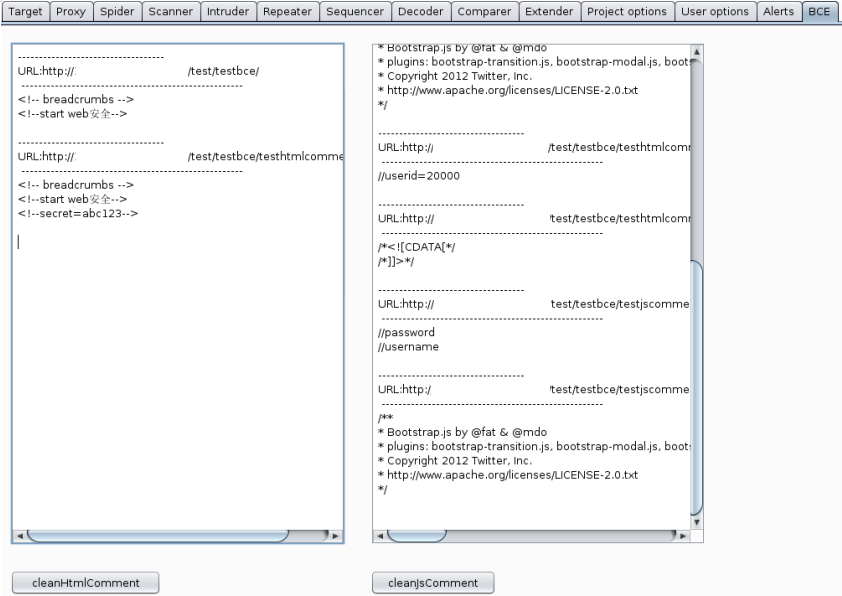
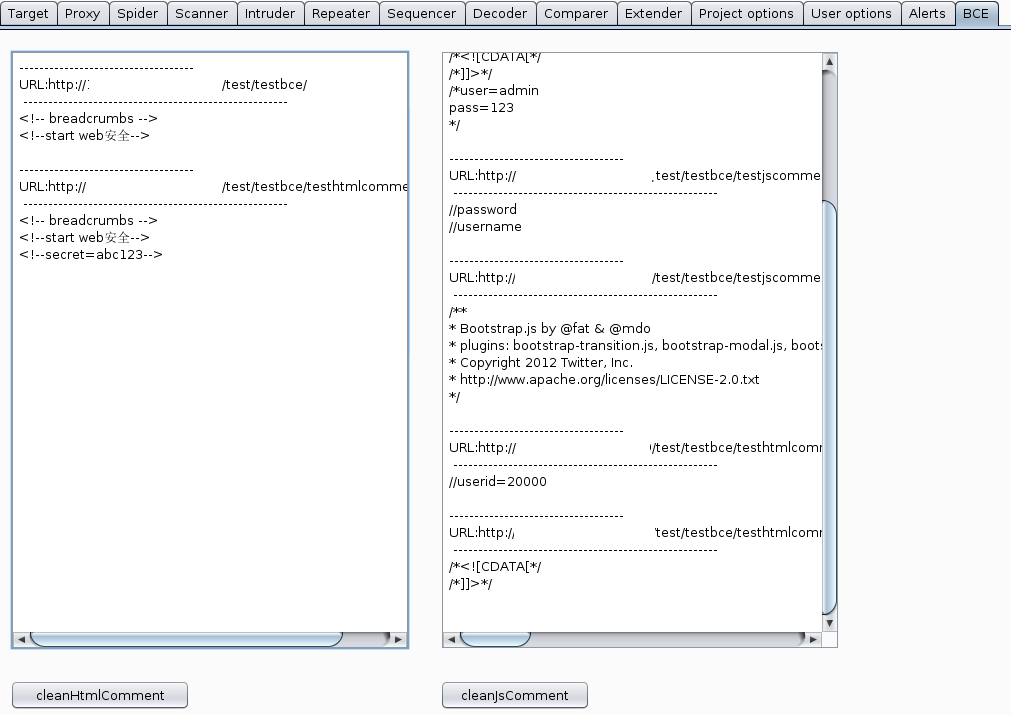
add duplicateUrl function

Changed region(s): [[0.0, 0.0, 1.0, 0.9966]]

diff --git a/src/burp/BurpExtender.java b/src/burp/BurpExtender.java
@@ -62,6 +62,8 @@ public class BurpExtender implements IBurpExtender, ITab, IScannerCheck, IExtens
     
     private static IMessageEditorTab markCommentTab;
     
+    ArrayList<String> urlList = new ArrayList<>();
+    
 	@Override
 	public void extensionUnloaded() {
 		// TODO Auto-generated method stub
@@ -94,6 +96,17 @@ public class BurpExtender implements IBurpExtender, ITab, IScannerCheck, IExtens
 			return true;
 		}
 		return false;
+	}
+	
+	
+	public boolean duplicateUrl(String url) {
+		if(urlList.contains(url)) {
+			return true;
+		}
+		else {
+			urlList.add(url);
+			return false;
+		}
 	}
 	
 	
@@ -169,6 +182,11 @@ public class BurpExtender implements IBurpExtender, ITab, IScannerCheck, IExtens
 	
 	
 	public void printfHtmlJsComment(String url) {
+		
+		if(duplicateUrl(url)) {
+			return;
+		}
+		
 		if(htmlCommentMatch != "") {
 			SwingUtilities.invokeLater(() -> {
 				

diff --git a/README.md b/README.md
@@ -23,11 +23,11 @@ JS注释1：String jsCommentRegex1 = "\\/\\*(\\s|.)*?\\*\\/";
 
 2）自定义tab
 
-![](https://github.com/theLSA/burp-comment-extractor/raw/master/demo/bce01.png)
+![](https://github.com/theLSA/burp-comment-extractor/raw/master/demo/bce04.png)
 
 ![](https://github.com/theLSA/burp-comment-extractor/raw/master/demo/bce02.png)
 
-![](https://github.com/theLSA/burp-comment-extractor/raw/master/demo/bce03.png)
+![](https://github.com/theLSA/burp-comment-extractor/raw/master/demo/bce01.png)
 
 
 
